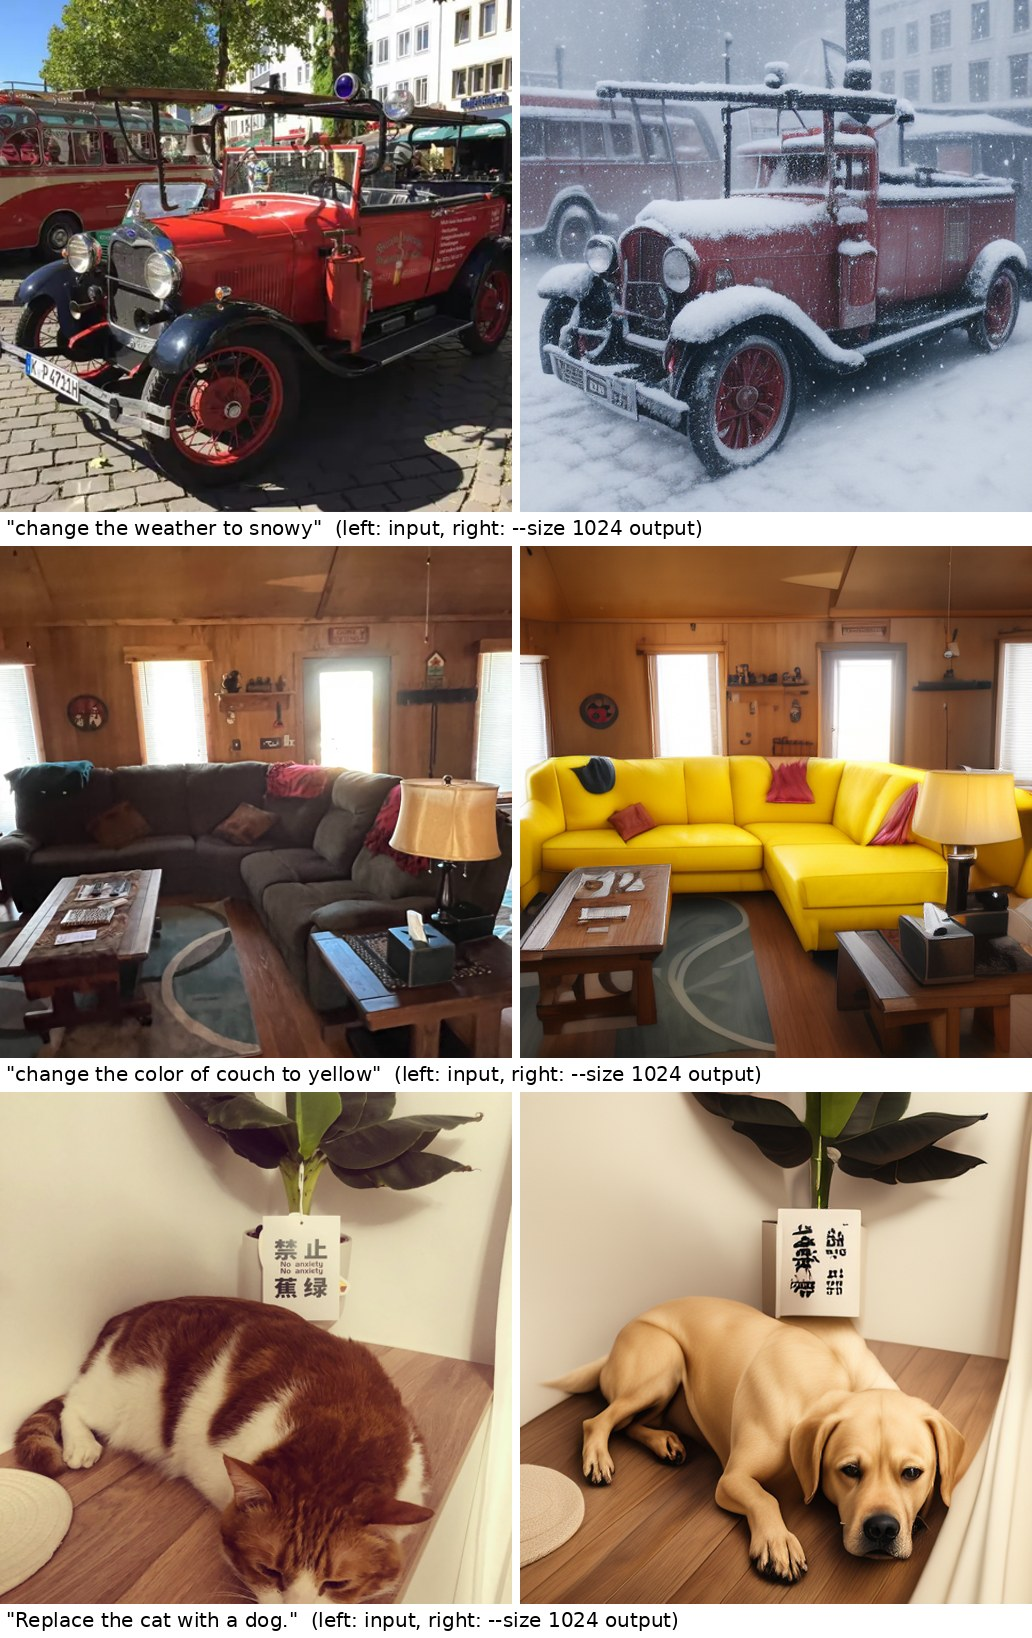
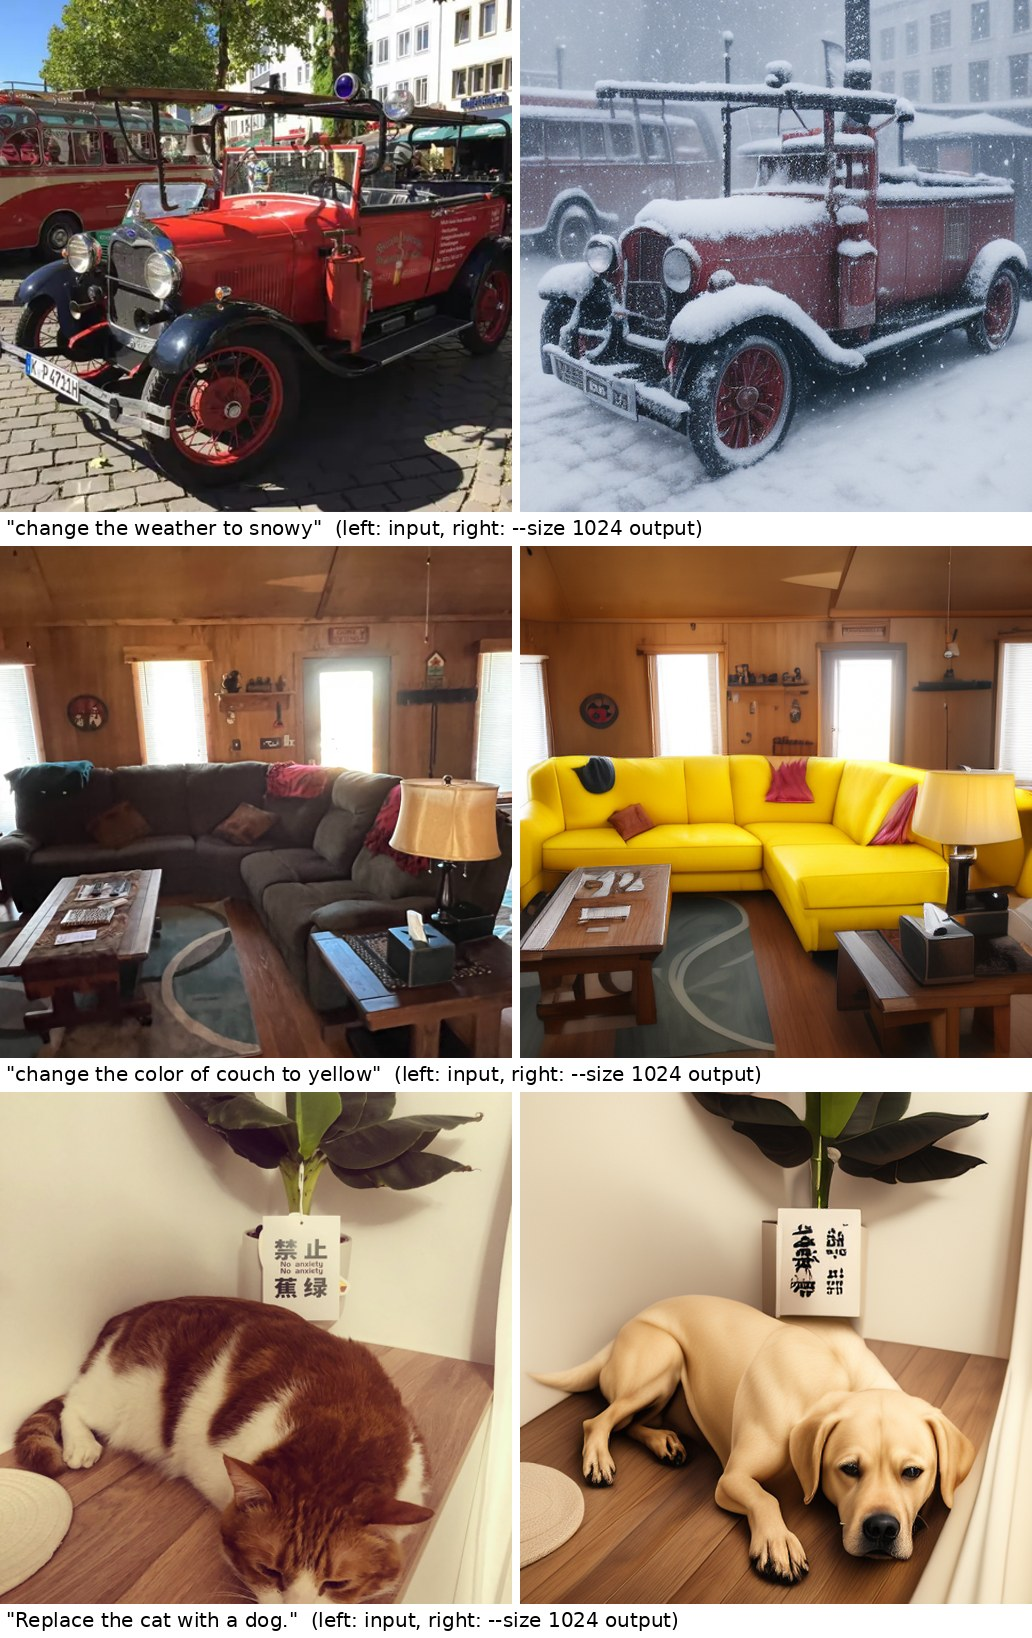
Edit default cfg 2.5 (MagicBrush masks: most edit-region change per background change)

diff --git a/infer.py b/infer.py
@@ -6,7 +6,7 @@
 
 The checkpoint is downloaded from the Hugging Face Hub on first use. Defaults are the
 measured shipping recipe of the default checkpoint (see README): text-to-image with APG at
-cfg 3.0, editing with plain cfg 2.0, 20 DPM-Solver++ steps.
+cfg 3.0, editing with plain cfg 2.5, 20 DPM-Solver++ steps.
 """
 import argparse
 import os
@@ -33,7 +33,7 @@ def main():
     ap.add_argument("--vlm_layers", type=int, default=1)
     ap.add_argument("--steps", type=int, default=20)
     ap.add_argument("--cfg", type=float, default=None,
-                    help="default: 3.0 for text-to-image (with APG), 2.0 for editing")
+                    help="default: 3.0 for text-to-image (with APG), 2.5 for editing")
     ap.add_argument("--guidance", choices=["auto", "apg", "cfg"], default="auto",
                     help="auto = APG for text-to-image, plain CFG for editing")
     ap.add_argument("--size", type=int, default=512, choices=[512, 1024],
@@ -44,7 +44,7 @@ def main():
 
     edit = bool(args.image)
     if args.cfg is None:
-        args.cfg = 2.0 if edit else 3.0
+        args.cfg = 2.5 if edit else 3.0
     if args.guidance == "auto":
         args.guidance = "cfg" if edit else "apg"
     srcs = args.image * len(args.prompt) if len(args.image) == 1 else args.image

diff --git a/README.md b/README.md
@@ -110,8 +110,10 @@ The defaults are the measured recipe for `rand-dual`:
   t=3.46: realism, hands and group shots all improve; measured on this checkpoint's immediate
   predecessor). Without APG, raising cfg to 3.0 makes people look
   worse, which is why the older checkpoints shipped at cfg 1.5.
-- **Editing: plain cfg 2.0.** APG at cfg 3.0 raised GEdit by 0.15 but lowered ImgEdit by 0.06; at
-  cfg 2.0 it was neutral.
+- **Editing: plain cfg 2.5.** Chosen on 265 MagicBrush edits using the annotators' masks of the region
+  to edit. From cfg 1.0 to 2.5, the change inside the edit region grows from 50 to 63/255 while the
+  background moves only from 31 to 34/255. Above 2.5, each step adds little edit and more contrast.
+  The ImgEdit/GEdit numbers above were measured at cfg 2.0.
 - **20 DPM-Solver++ steps.**
 
 Change them with `--cfg`, `--guidance {apg,cfg}` and `--steps`. For the single-stream `rand-mobile`
